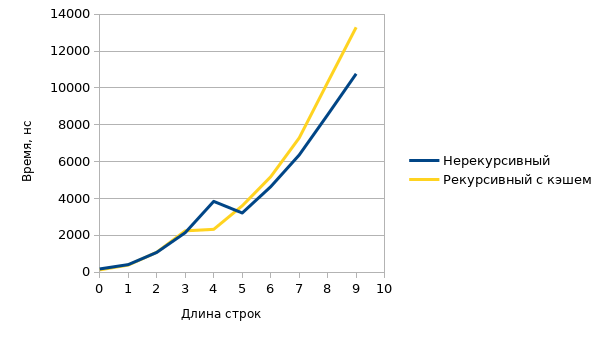
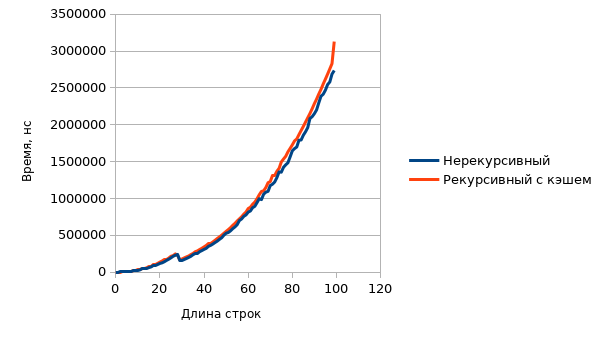
Add technological part

diff --git a/lab-01/report/lab-01.tex b/lab-01/report/lab-01.tex
@@ -182,13 +182,13 @@ $$
 
 \section{Поиск расстояния Левенштейна}
 
-\subsection{Нерекурсивный алгоритм} \label{vl-iterative}
+\subsection{Нерекурсивный алгоритм} \label{design-vl-iterative}
 
 Пусть $\textbf{s}$ и $\textbf{t}$ -- строки из $m$ и $n$ символов
-соответственно, тогда $D$ -- целочисленная матрица $(m + 1) \times
-(n + 1)$ элементов, причём $d_{ij}$ -- расстояние Левенштейна между
-срезами $(\textbf{s}_k | k \in [1; i - 1])$ и
-$(\textbf{t}_k | k \in [1; j - 1])$.
+соответственно, тогда $D$ -- целочисленная матрица $(m + 1)(n + 1)$
+элементов, причём $d_{ij}$ -- расстояние Левенштейна между срезами
+$\textbf{s}_1 \textbf{s}_2 ... \textbf{s}_{i - 1}$ и
+$\textbf{t}_1 \textbf{t}_2 ... \textbf{t}_{j - 1}$.
 
 Матрица $D$ может быть вычислена с помощью двух вложенных циклов.
 
@@ -199,8 +199,9 @@ TODO: схема алгоритма
 \subsection{Нерекурсивный алгоритм}
 
 Аналогично нерекурсивному алгоритму поиска расстояния Левенштейна,
-рассмотренному в подразделе \ref{vl-iterative}, был разработан
-нерекурсивный алгоритм поиска расстояния Дамерау-Левенштейна.
+рассмотренному в подразделе \ref{design-vl-iterative}, был
+разработан нерекурсивный алгоритм поиска расстояния
+Дамерау-Левенштейна.
 
 TODO: схема алгоритма
 
@@ -218,8 +219,8 @@ TODO: схема алгоритма
 Дамерау-Левенштейна в том, что многие значения выражения
 \ref{eq:dl} вычисляются повторно. Очевидным решением является
 введение кэша в виде матрицы, подобной рассмотренной в подразделе
-\ref{vl-iterative}, но допускающей <<отсутствие>> значения каждого
-элемента.
+\ref{design-vl-iterative}, но допускающей <<отсутствие>> значения
+одного или нескольких элементов.
 
 TODO: схема алгоритма
 
@@ -235,18 +236,18 @@ TODO: схема алгоритма
 использован инструмент Cargo, поскольку он позволяет
 автоматизировать значительную часть работы.
 
-Для замера процессорного времени был выбран крейт cpu-time,
-поскольку он предоставляет простой и идиоматичный интерфейс.
+Для замера процессорного времени был выбран крейт
+\texttt{cpu-time}, поскольку он предоставляет простой и
+идиоматичный интерфейс.
 
-\section{Реализация алгоритмов}
+\section{Реализации алгоритмов}
 
-Далее представлен листинг реализации нерекурсивного алгоритма
-поиска расстояния Левенштейна.
+\subsection{Поиск расстояния Левенштейна}
 
-\begin{lstlisting}[caption=
-    Нерекурсивная реализация алгоритма поиска расстояния
-    Левенштейна.
-]
+В ходе работы был реализован нерекурсивный алгоритм поиска
+расстояния Левенштейна на Rust.
+
+\begin{lstlisting}[caption=Реализация нерекурсивного алгоритма]
 fn distance(s: &str, t: &str) -> usize {
     let (m, n) = (s.len(), t.len());
 
@@ -269,13 +270,17 @@ fn distance(s: &str, t: &str) -> usize {
             let c = s.chars().nth(i - 1).unwrap();
             let d = t.chars().nth(j - 1).unwrap();
 
-            let mut cases = vec![matrix.get(i - 1, j - 1)
-                + if c == d { 0 } else { 1 }];
+            let mut cases = vec![
+                matrix.get(i - 1, j - 1)
+                    + if c == d { 0 } else { 1 }
+            ];
 
             cases.push(matrix.get(i - 1, j) + 1);
             cases.push(matrix.get(i, j - 1) + 1);
 
-            matrix.set(i, j, *cases.iter().min().unwrap());
+            matrix.set(i, j,
+                *cases.iter().min().unwrap()
+            );
         }
     }
 
@@ -283,13 +288,13 @@ fn distance(s: &str, t: &str) -> usize {
 }
 \end{lstlisting}
 
-В свою очередь, листинг нерекурсивного алгоритма поиска расстояния
-Дамерау-Левенштейна имеет следующий вид.
+\subsection{Поиск расстояния Дамерау-Левенштейна}
 
-\begin{lstlisting}[caption=
-    Нерекурсивная реализация алгоритма поиска расстояния
-    Дамерау-Левенштейна.
-]
+В ходе работы были реализованы три алгоритма поиска расстояния
+Дамерау-Левенштейна на Rust: нерекурсивный, простой рекурсивный и
+рекурсивный с кэшем.
+
+\begin{lstlisting}[caption=Реализация нерекурсивного алгоритма]
 fn distance(s: &str, t: &str) -> usize {
     let (m, n) = (s.len(), t.len());
 
@@ -312,8 +317,10 @@ fn distance(s: &str, t: &str) -> usize {
             let c = s.chars().nth(i - 1).unwrap();
             let d = t.chars().nth(j - 1).unwrap();
 
-            let mut cases = vec![matrix.get(i - 1, j - 1)
-                + if c == d { 0 } else { 1 }];
+            let mut cases = vec![
+                matrix.get(i - 1, j - 1)
+                    + if c == d { 0 } else { 1 }
+            ];
 
             cases.push(matrix.get(i - 1, j) + 1);
             cases.push(matrix.get(i, j - 1) + 1);
@@ -324,11 +331,15 @@ fn distance(s: &str, t: &str) -> usize {
                 let q = t.chars().nth(j - 2).unwrap();
 
                 if c == q && p == d {
-                    cases.push(matrix.get(i - 2, j - 2) + 1);
+                    cases.push(
+                        matrix.get(i - 2, j - 2) + 1
+                    );
                 }
             }
 
-            matrix.set(i, j, *cases.iter().min().unwrap());
+            matrix.set(i, j,
+                *cases.iter().min().unwrap()
+            );
         }
     }
 
@@ -336,13 +347,10 @@ fn distance(s: &str, t: &str) -> usize {
 }
 \end{lstlisting}
 
-Листинг простой рекурсивной реализации алгоритма поиска расстояния
-Дамерау-Левенштейна демонстрирует наглядность такого подхода.
+Листинг реализации простого рекурсивного алгоритма демонстрирует
+наглядность такого подхода.
 
-\begin{lstlisting}[caption=
-    Простая рекурсивная реализация алгоритма поиска расстояния
-    Дамерау-Левенштейна.
-]
+\begin{lstlisting}[caption=Реализация простого рекурсивного алгоритма]
 fn distance(s: &str, t: &str) -> usize {
     let (m, n) = (s.len(), t.len());
 
@@ -358,8 +366,10 @@ fn distance(s: &str, t: &str) -> usize {
     let c = s.chars().nth(m - 1).unwrap();
     let d = t.chars().nth(n - 1).unwrap();
 
-    let mut cases = vec![Self::distance(&s[..m - 1], &t[..n - 1])
-        + if c == d { 0 } else { 1 }];
+    let mut cases = vec![
+        Self::distance(&s[..m - 1], &t[..n - 1])
+            + if c == d { 0 } else { 1 }
+    ];
 
     cases.push(Self::distance(&s[..m - 1], t) + 1);
     cases.push(Self::distance(s, &t[..n - 1]) + 1);
@@ -370,7 +380,12 @@ fn distance(s: &str, t: &str) -> usize {
         let q = t.chars().nth(n - 2).unwrap();
 
         if c == q && p == d {
-            cases.push(Self::distance(&s[..m - 2], &t[..n - 2]) + 1);
+            cases.push(
+                Self::distance(
+                    &s[..m - 2],
+                    &t[..n - 2]
+                ) + 1
+            );
         }
     }
 
@@ -378,9 +393,98 @@ fn distance(s: &str, t: &str) -> usize {
 }
 \end{lstlisting}
 
+Реализация рекурсивного алгоритма с кэшем требует несколько более
+сложной структуры -- необходима вспомогательная функция.
+
+\begin{lstlisting}[caption=Реализация рекурсивного алгоритма с кэшем]
+fn distance(s: &str, t: &str) -> usize {
+    let (m, n) = (s.len(), t.len());
+
+    // A cache of Damerau-Levenshtein distances
+    let mut cache = Cache::new(None, m + 1, n + 1);
+
+    helper(s, t, &mut cache)
+}
+
+fn helper(s: &str, t: &str, cache: &mut Cache) -> usize {
+    let (m, n) = (s.len(), t.len());
+
+    if let Some(distance) = cache.get(m, n) {
+        return *distance;
+    }
+
+    if m == 0 {
+        return n;
+    }
+
+    if n == 0 {
+        return m;
+    }
+
+    // The last characters
+    let c = s.chars().nth(m - 1).unwrap();
+    let d = t.chars().nth(n - 1).unwrap();
+
+    let mut cases = vec![
+        helper(
+            &s[..m - 1],
+            &t[..n - 1],
+            cache
+        ) + if c == d { 0 } else { 1 }
+    ];
+
+    cases.push(helper(&s[..m - 1], t, cache) + 1);
+    cases.push(helper(s, &t[..n - 1], cache) + 1);
+
+    if m > 1 && n > 1 {
+        // The last but one characters
+        let p = s.chars().nth(m - 2).unwrap();
+        let q = t.chars().nth(n - 2).unwrap();
+
+        if c == q && p == d {
+            cases.push(
+                helper(
+                    &s[0..m - 2],
+                    &t[0..n - 2],
+                    cache
+                ) + 1
+            );
+        }
+    }
+
+    // The Damerau-Levenshtein distance
+    let distance = *cases.iter().min().unwrap();
+
+    // The cache should be updated
+    cache.set(m, n, Some(distance));
+
+    distance
+}
+\end{lstlisting}
+
 \section{Тестирование}
 
-\begin{lstlisting}[caption=Тесты алгоритмов поиска расстояния Левенштейна]
+В ходе работы были реализованы тесты для каждой реализации
+алгоритмов поиска расстояния Левенштейна и Дамерау-Левенштейна.
+
+\subsection{Поиск расстояния Левенштейна} \label{test-vl}
+
+Для реализаций алгоритмов поиска расстояния Левенштейна были
+выделены следующие тестовые случаи:
+
+\begin{itemize}
+    \item обе строки пустые;
+    \item первая строка пустая;
+    \item вторая строка пустая;
+    \item требуется одна вставка;
+    \item требуется одно удаление;
+    \item требуется одна замена;
+    \item требуется одна перестановка;
+    \item строки совпадают;
+    \item строки различаются.
+\end{itemize}
+
+\begin{lstlisting}[caption=Тесты реализаций алгоритмов]
 // Both strings are empty
 assert_eq!(distance("", ""), 0);
 
@@ -409,7 +513,13 @@ assert_eq!(distance("zug", "zug"), 0);
 assert_eq!(distance("heaven", "hell"), 4);
 \end{lstlisting}
 
-\begin{lstlisting}[caption=Тесты реализаций алгоритмов поиска расстояния Дамерау-Левенштейна]
+\subsection{Поиск расстояния Дамерау-Левенштейна}
+
+Для реализаций алгоритмов поиска расстояния Дамерау-Левенштейна
+были выделены тестовые случаи, аналогичные рассмотренным в
+\ref{test-vl}.
+
+\begin{lstlisting}[caption=Тесты реализаций алгоритмов]
 // Both strings are empty
 assert_eq!(distance("", ""), 0);
 
@@ -442,14 +552,20 @@ assert_eq!(distance("heaven", "hell"), 4);
 
 \section{Замеры процессорного времени}
 
-Были проведены замеры процессорного времени работы реализации
-каждого алгоритма. Полученные данные представлены в виде графиков.
+В ходе работы были проведены замеры процессорного времени
+выполнения реализации каждого алгоритма. Полученные данные
+представлены в виде графиков.
 
 \begin{figure}[ht]
     \centering
     \includegraphics[width=\textwidth]{plt-01.png}
     \caption{Сравнение времени работы реализаций трёх алгоритмов}
 \end{figure}
+
+Поскольку простой рекурсивный алгоритм имеет, судя по результатам,
+экспоненциальную временную сложность, были выполнены дополнительные
+замеры процессорного времени выполнения реализаций двух оставшихся
+алгоритмов.
 
 \begin{figure}[ht]
     \centering
@@ -490,5 +606,9 @@ TODO: выводы
 2. Damerau, F. J. A technique for computer detection and correction
 of spelling errors. / F. J. Damerau // Communications of the ACM.
 -- 1964. -- 7 (3). -- 171-176.
+
+3. Colomiets, P. CPU Time Measurement Library. / P. Colomiets
+URL: https://crates.io/crates/cpu-time
+(дата обращения: 30.09.2022).
 
 \end{document}
